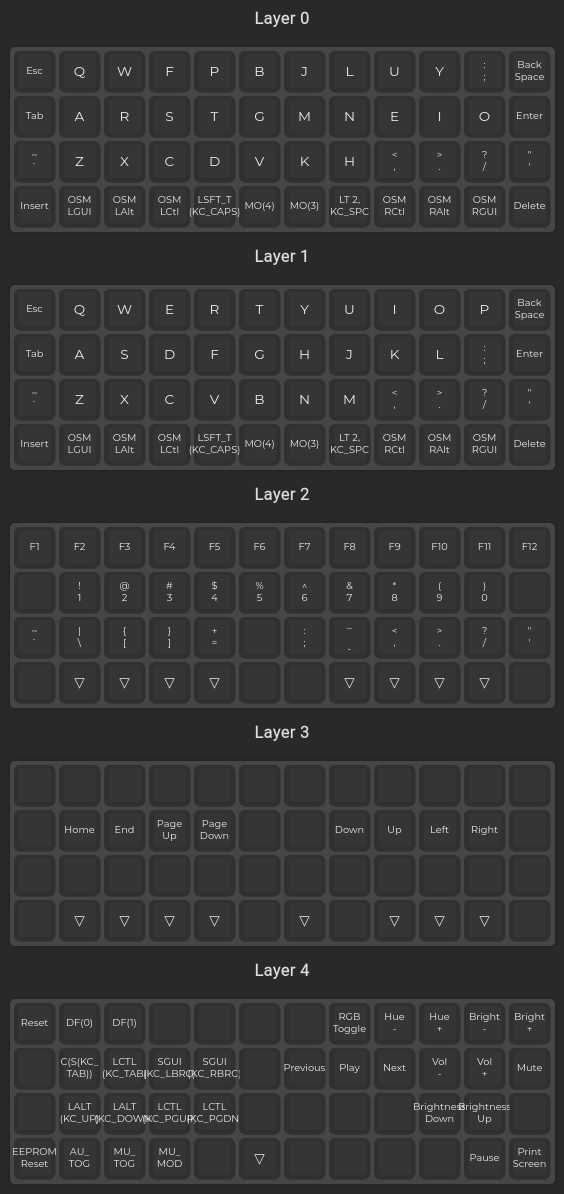
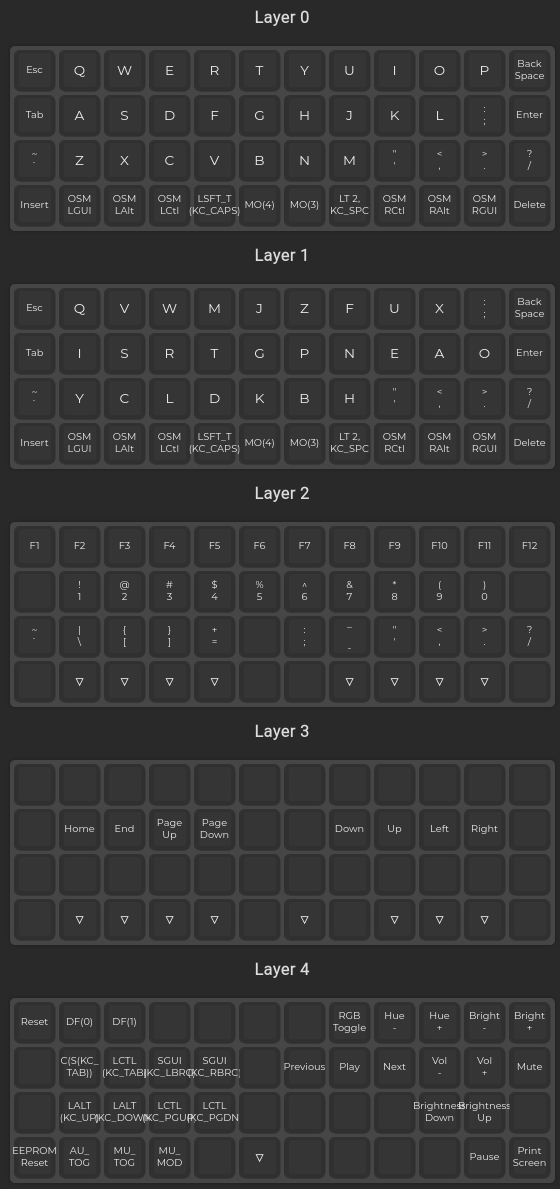
Initial stab

diff --git a/keymap.c b/keymap.c
@@ -7,9 +7,9 @@
  */
 
 const uint16_t PROGMEM keymaps[][MATRIX_ROWS][MATRIX_COLS] = {
-	[0] = LAYOUT_ortho_4x12(KC_ESC, KC_Q, KC_W, KC_F, KC_P, KC_B, KC_J, KC_L, KC_U, KC_Y, KC_SCLN, KC_BSPC, KC_TAB, KC_A, KC_R, KC_S, KC_T, KC_G, KC_M, KC_N, KC_E, KC_I, KC_O, KC_ENT, KC_GRV, KC_Z, KC_X, KC_C, KC_D, KC_V, KC_K, KC_H, KC_COMM, KC_DOT, KC_SLSH, KC_QUOT, KC_INS, OSM(MOD_LGUI), OSM(MOD_LALT), OSM(MOD_LCTL), LSFT_T(KC_CAPS), MO(4), MO(3), LT(2,KC_SPC), OSM(MOD_RCTL), OSM(MOD_RALT), OSM(MOD_RGUI), KC_DEL),
-	[1] = LAYOUT_ortho_4x12(KC_ESC, KC_Q, KC_W, KC_E, KC_R, KC_T, KC_Y, KC_U, KC_I, KC_O, KC_P, KC_BSPC, KC_TAB, KC_A, KC_S, KC_D, KC_F, KC_G, KC_H, KC_J, KC_K, KC_L, KC_SCLN, KC_ENT, KC_GRV, KC_Z, KC_X, KC_C, KC_V, KC_B, KC_N, KC_M, KC_COMM, KC_DOT, KC_SLSH, KC_QUOT, KC_INS, OSM(MOD_LGUI), OSM(MOD_LALT), OSM(MOD_LCTL), LSFT_T(KC_CAPS), MO(4), MO(3), LT(2,KC_SPC), OSM(MOD_RCTL), OSM(MOD_RALT), OSM(MOD_RGUI), KC_DEL),
-	[2] = LAYOUT_ortho_4x12(KC_F1, KC_F2, KC_F3, KC_F4, KC_F5, KC_F6, KC_F7, KC_F8, KC_F9, KC_F10, KC_F11, KC_F12, KC_NO, KC_1, KC_2, KC_3, KC_4, KC_5, KC_6, KC_7, KC_8, KC_9, KC_0, KC_NO, KC_GRV, KC_BSLS, KC_LBRC, KC_RBRC, KC_EQL, KC_NO, KC_SCLN, KC_MINS, KC_COMM, KC_DOT, KC_SLSH, KC_QUOT, KC_NO, KC_TRNS, KC_TRNS, KC_TRNS, KC_TRNS, KC_NO, KC_NO, KC_TRNS, KC_TRNS, KC_TRNS, KC_TRNS, KC_NO),
+	[0] = LAYOUT_ortho_4x12(KC_ESC, KC_Q, KC_W, KC_E, KC_R, KC_T, KC_Y, KC_U, KC_I, KC_O, KC_P, KC_BSPC, KC_TAB, KC_A, KC_S, KC_D, KC_F, KC_G, KC_H, KC_J, KC_K, KC_L, KC_SCLN, KC_ENT, KC_GRV, KC_Z, KC_X, KC_C, KC_V, KC_B, KC_N, KC_M, KC_QUOT, KC_COMM, KC_DOT, KC_SLSH, KC_INS, OSM(MOD_LGUI), OSM(MOD_LALT), OSM(MOD_LCTL), LSFT_T(KC_CAPS), MO(4), MO(3), LT(2,KC_SPC), OSM(MOD_RCTL), OSM(MOD_RALT), OSM(MOD_RGUI), KC_DEL),
+	[1] = LAYOUT_ortho_4x12(KC_ESC, KC_Q, KC_V, KC_W, KC_M, KC_J, KC_Z, KC_F, KC_U, KC_X, KC_SCLN, KC_BSPC, KC_TAB, KC_I, KC_S, KC_R, KC_T, KC_G, KC_P, KC_N, KC_E, KC_A, KC_O, KC_ENT, KC_GRV, KC_Y, KC_C, KC_L, KC_D, KC_K, KC_B, KC_H, KC_QUOT, KC_COMM, KC_DOT, KC_SLSH, KC_INS, OSM(MOD_LGUI), OSM(MOD_LALT), OSM(MOD_LCTL), LSFT_T(KC_CAPS), MO(4), MO(3), LT(2,KC_SPC), OSM(MOD_RCTL), OSM(MOD_RALT), OSM(MOD_RGUI), KC_DEL),
+	[2] = LAYOUT_ortho_4x12(KC_F1, KC_F2, KC_F3, KC_F4, KC_F5, KC_F6, KC_F7, KC_F8, KC_F9, KC_F10, KC_F11, KC_F12, KC_NO, KC_1, KC_2, KC_3, KC_4, KC_5, KC_6, KC_7, KC_8, KC_9, KC_0, KC_NO, KC_GRV, KC_BSLS, KC_LBRC, KC_RBRC, KC_EQL, KC_NO, KC_SCLN, KC_MINS, KC_QUOT, KC_COMM, KC_DOT, KC_SLSH, KC_NO, KC_TRNS, KC_TRNS, KC_TRNS, KC_TRNS, KC_NO, KC_NO, KC_TRNS, KC_TRNS, KC_TRNS, KC_TRNS, KC_NO),
 	[3] = LAYOUT_ortho_4x12(KC_NO, KC_NO, KC_NO, KC_NO, KC_NO, KC_NO, KC_NO, KC_NO, KC_NO, KC_NO, KC_NO, KC_NO, KC_NO, KC_HOME, KC_END, KC_PGUP, KC_PGDN, KC_NO, KC_NO, KC_DOWN, KC_UP, KC_LEFT, KC_RGHT, KC_NO, KC_NO, KC_NO, KC_NO, KC_NO, KC_NO, KC_NO, KC_NO, KC_NO, KC_NO, KC_NO, KC_NO, KC_NO, KC_NO, KC_TRNS, KC_TRNS, KC_TRNS, KC_TRNS, KC_NO, KC_TRNS, KC_NO, KC_TRNS, KC_TRNS, KC_TRNS, KC_NO),
 	[4] = LAYOUT_ortho_4x12(RESET, DF(0), DF(1), KC_NO, KC_NO, KC_NO, KC_NO, RGB_TOG, RGB_HUD, RGB_HUI, RGB_VAD, RGB_VAI, KC_NO, C(S(KC_TAB)), LCTL(KC_TAB), SGUI(KC_LBRC), SGUI(KC_RBRC), KC_NO, KC_MPRV, KC_MPLY, KC_MNXT, KC_VOLD, KC_VOLU, KC_MUTE, KC_NO, LALT(KC_UP), LALT(KC_DOWN), LCTL(KC_PGUP), LCTL(KC_PGDN), KC_NO, KC_NO, KC_NO, KC_NO, KC_BRID, KC_BRIU, KC_NO, EEP_RST, AU_TOG, MU_TOG, MU_MOD, KC_NO, KC_TRNS, KC_NO, KC_NO, KC_NO, KC_NO, KC_PAUS, KC_PSCR)
 };
